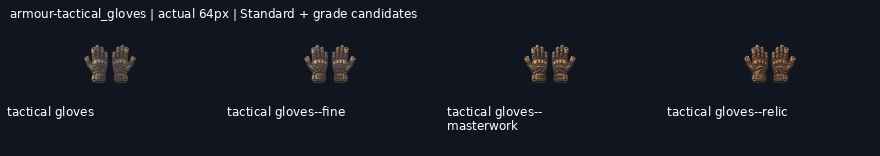
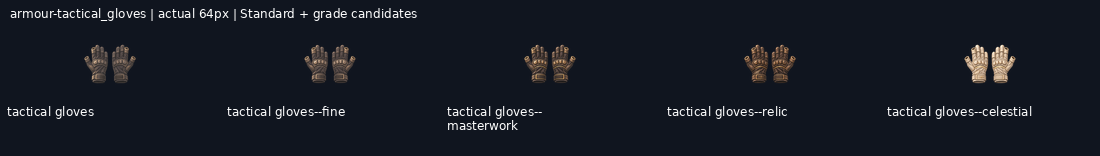
art: draw armour-tactical_gloves--celestial grade candidate

diff --git a/art/_archive/gear/2026-11-19-kept-blade-grades/HANDOFF.md b/art/_archive/gear/2026-11-19-kept-blade-grades/HANDOFF.md
@@ -1,6 +1,6 @@
 # Gear grade candidates
 
-**172/208 grade candidates delivered** on `art/2026-11-19-kept-blade-grades`. Shared mailbox: https://github.com/leonpentastorm/Project-Heaven-Cry/issues/3 . See claim.json for this lane’s current Standards. Released overlapping blades reuse12 peer candidates, with3 local alternatives archived.
+**173/208 grade candidates delivered** on `art/2026-11-19-kept-blade-grades`. Shared mailbox: https://github.com/leonpentastorm/Project-Heaven-Cry/issues/3 . See claim.json for this lane’s current Standards. Released overlapping blades reuse12 peer candidates, with3 local alternatives archived.
 
 Leon requested continuous candidate production; proof approval is not fabricated. All candidates remain review-candidate, production_approved:false, implementation_ready:false, with outline.review_required:true. Exact outline is measured, never asserted unless the masks match. Per-image registration is uniform scaling/translation only, without warp, silhouette masks, filled pixels or code-drawn substitutes. The generated native remains untouched.
 
@@ -10,12 +10,12 @@ Tomorrow: fetch this branch and develop safely, read the latest issue 3 comments
 
 Peer audit: [coordination/peer-audit-2026-11-19.md](coordination/peer-audit-2026-11-19.md). Peer58 masters/232 exports and12 canonical imports are integrated with versioned alpha<8 cleanup; originals are retained. See coordination/peer-import-v2/manifest.json and post-catalog VALIDATION.json (strict margins pass, solid alpha unchanged). Peer quota resets20 November2026 at09:45:39 Bangkok time; this does not establish this session’s quota.
 
-Remaining: weapon-ork_machete--masterwork, weapon-ork_machete--relic, weapon-ork_machete--celestial, weapon-war_axe--fine, weapon-war_axe--masterwork, weapon-war_axe--relic, weapon-war_axe--celestial, weapon-parlour_pistol--fine, weapon-parlour_pistol--masterwork, weapon-parlour_pistol--relic, weapon-parlour_pistol--celestial, weapon-lever_carbine--fine, weapon-lever_carbine--masterwork, weapon-lever_carbine--relic, weapon-lever_carbine--celestial, weapon-sawn_off--fine, weapon-sawn_off--masterwork, weapon-sawn_off--relic, weapon-sawn_off--celestial, weapon-coach_gun--fine, weapon-coach_gun--masterwork, weapon-coach_gun--relic, weapon-coach_gun--celestial, weapon-legion_bullpup--fine, weapon-legion_bullpup--masterwork, weapon-legion_bullpup--relic, weapon-legion_bullpup--celestial, weapon-whisper_smg--fine, weapon-whisper_smg--masterwork, weapon-whisper_smg--relic, weapon-whisper_smg--celestial, armour-tactical_gloves--celestial, armour-jump_boots--fine, armour-jump_boots--masterwork, armour-jump_boots--relic, armour-jump_boots--celestial.
+Remaining: weapon-ork_machete--masterwork, weapon-ork_machete--relic, weapon-ork_machete--celestial, weapon-war_axe--fine, weapon-war_axe--masterwork, weapon-war_axe--relic, weapon-war_axe--celestial, weapon-parlour_pistol--fine, weapon-parlour_pistol--masterwork, weapon-parlour_pistol--relic, weapon-parlour_pistol--celestial, weapon-lever_carbine--fine, weapon-lever_carbine--masterwork, weapon-lever_carbine--relic, weapon-lever_carbine--celestial, weapon-sawn_off--fine, weapon-sawn_off--masterwork, weapon-sawn_off--relic, weapon-sawn_off--celestial, weapon-coach_gun--fine, weapon-coach_gun--masterwork, weapon-coach_gun--relic, weapon-coach_gun--celestial, weapon-legion_bullpup--fine, weapon-legion_bullpup--masterwork, weapon-legion_bullpup--relic, weapon-legion_bullpup--celestial, weapon-whisper_smg--fine, weapon-whisper_smg--masterwork, weapon-whisper_smg--relic, weapon-whisper_smg--celestial, armour-jump_boots--fine, armour-jump_boots--masterwork, armour-jump_boots--relic, armour-jump_boots--celestial.
 
 Service-rejected requests (do not repeatedly resubmit): weapon-coach_gun--fine, weapon-legion_bullpup--fine, weapon-lever_carbine--fine, weapon-ork_machete--masterwork, weapon-parlour_pistol--fine, weapon-sawn_off--fine, weapon-war_axe--fine, weapon-whisper_smg--fine.
 
 Waiting on rejected prerequisites: weapon-coach_gun--celestial, weapon-coach_gun--masterwork, weapon-coach_gun--relic, weapon-legion_bullpup--celestial, weapon-legion_bullpup--masterwork, weapon-legion_bullpup--relic, weapon-lever_carbine--celestial, weapon-lever_carbine--masterwork, weapon-lever_carbine--relic, weapon-ork_machete--celestial, weapon-ork_machete--relic, weapon-parlour_pistol--celestial, weapon-parlour_pistol--masterwork, weapon-parlour_pistol--relic, weapon-sawn_off--celestial, weapon-sawn_off--masterwork, weapon-sawn_off--relic, weapon-war_axe--celestial, weapon-war_axe--masterwork, weapon-war_axe--relic, weapon-whisper_smg--celestial, weapon-whisper_smg--masterwork, weapon-whisper_smg--relic.
 
-Ready independent next steps, in queue order: armour-tactical_gloves--celestial, armour-jump_boots--fine. Other pending grades follow their preceding grade.
+Ready independent next steps, in queue order: armour-jump_boots--fine. Other pending grades follow their preceding grade.
 
 Runtime handoff: implementation_ready:false records review status but does not gate the web asset builder. The builder emits grade asset keys; the current UI gear resolver still needs grade-aware selection. Do not claim that runtime grade selection is implemented by these art deliveries.
